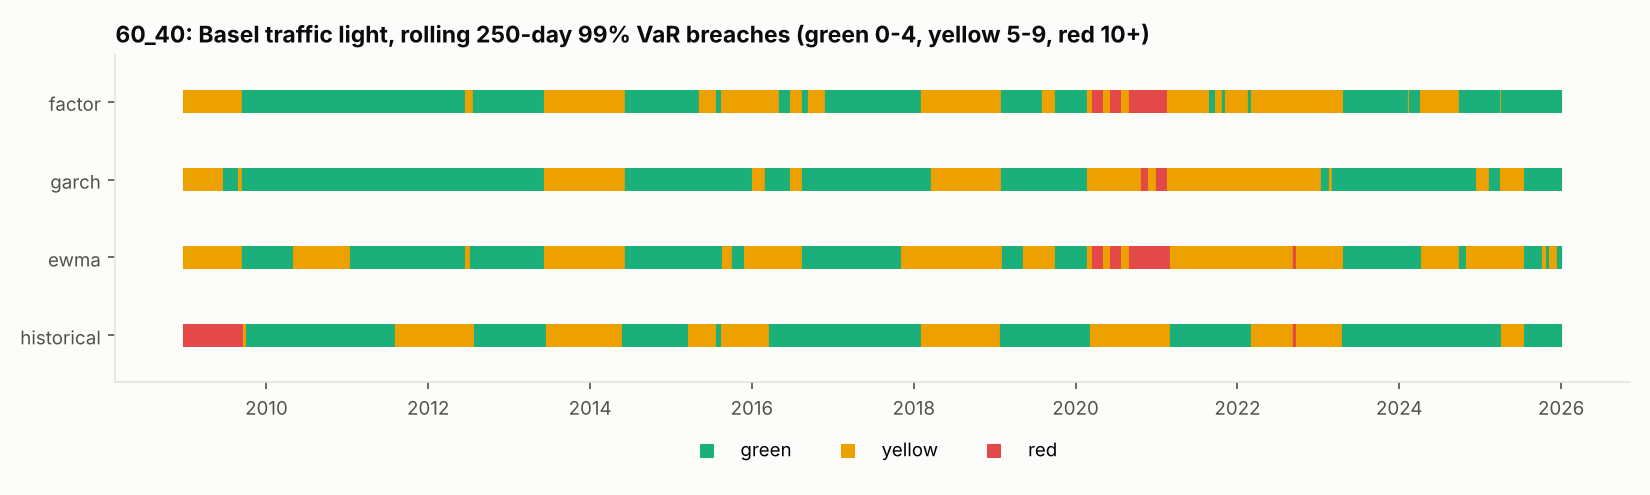
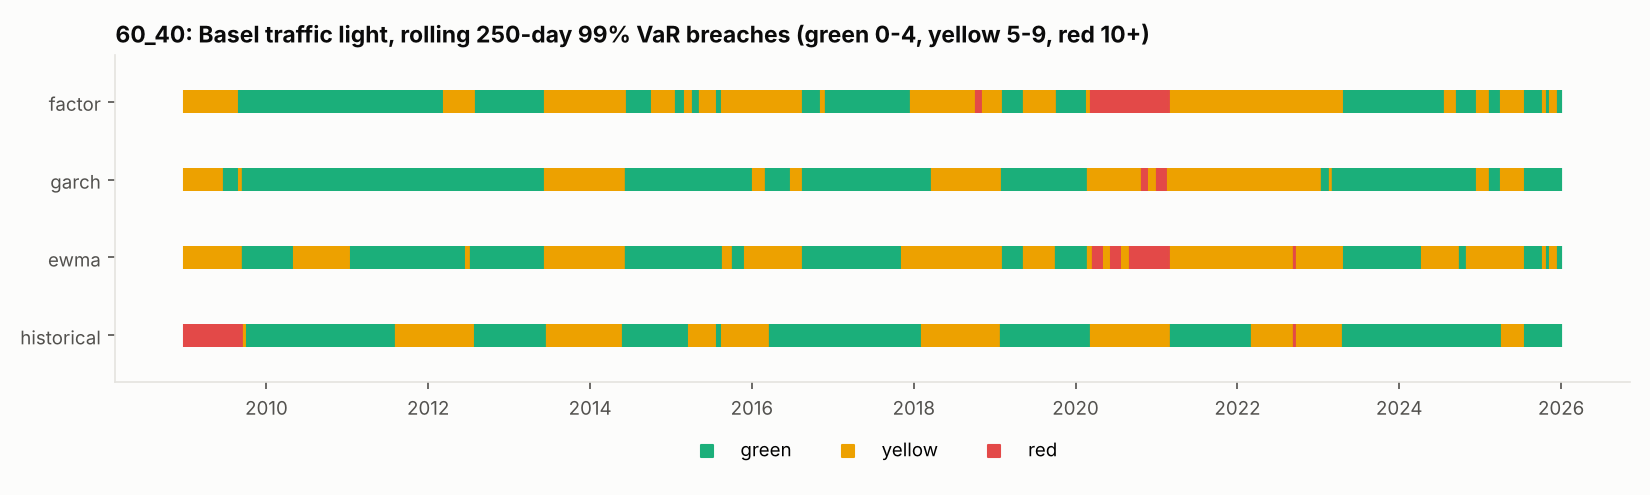
Rerun Parts 2-4 with 8-factor model; design change note

diff --git a/README.md b/README.md
@@ -18,6 +18,32 @@ make portfolios   # reports/portfolio_summary.csv, reports/cumulative_returns.pn
 make test
 ```
 
+## Design change: 8-factor risk model
+
+The original spec used the 6 Fama-French equity factors (market, size, value,
+profitability, investment, momentum). Those left about 35% of the 60/40 portfolio's risk
+and 46% of the defensive portfolio's risk unexplained, because bond and gold risk has no
+equity factor to load on. Two factors were added before the AI copilot study was
+pre-registered:
+
+- Rates: the negative daily change in the 10-year Treasury yield (FRED DGS10), so a fall
+  in yields is a positive factor return. It is built from yields, not from TLT returns,
+  so the bond holding does not explain itself. FRED holiday gaps are forward-filled
+  (never backward) and every filled day is logged in data/processed/filled_days.csv.
+- Gold: GLD daily returns, used as a proxy.
+
+With 8 factors the unexplained share falls to about 9% for 60/40 and 18% for defensive
+(2006 to 2025 average).
+
+## Limitations
+
+- The gold factor is GLD's own return, and GLD is also a holding in the defensive and
+  risk-parity portfolios, so GLD's exposure to gold is 1 by construction and gold risk
+  is fully "explained" for that holding. A cleaner choice would be a gold price series
+  that is not a portfolio holding.
+- The rates factor uses the 10-year yield, while TLT holds 20+ year bonds, so part of
+  TLT's risk stays in the leftover (idiosyncratic) share.
+
 Data is downloaded by the user from free public sources. Raw price data is never
 republished in this repo.
 

diff --git a/prereg.md b/prereg.md
@@ -82,3 +82,7 @@ strong evidence; one that loses to it is the expected outcome.
   artifacts. The pre-registered scoring is kept and reported unchanged. An EXPLORATORY
   measure was added (reports/drift_exploratory.csv): the share of all alarms, on any
   day, that fall in a regime-start window. It is labelled exploratory everywhere.
+- 2026-10-24, design change before Part 5 is pre-registered: the factor model now has 8
+  factors (6 equity, rates from FRED DGS10, gold from GLD); see README. Parts 2 to 4 were
+  rerun. In Part 4 only the factor model's residuals changed; the regime rule, detector
+  thresholds and scoring are unchanged.
